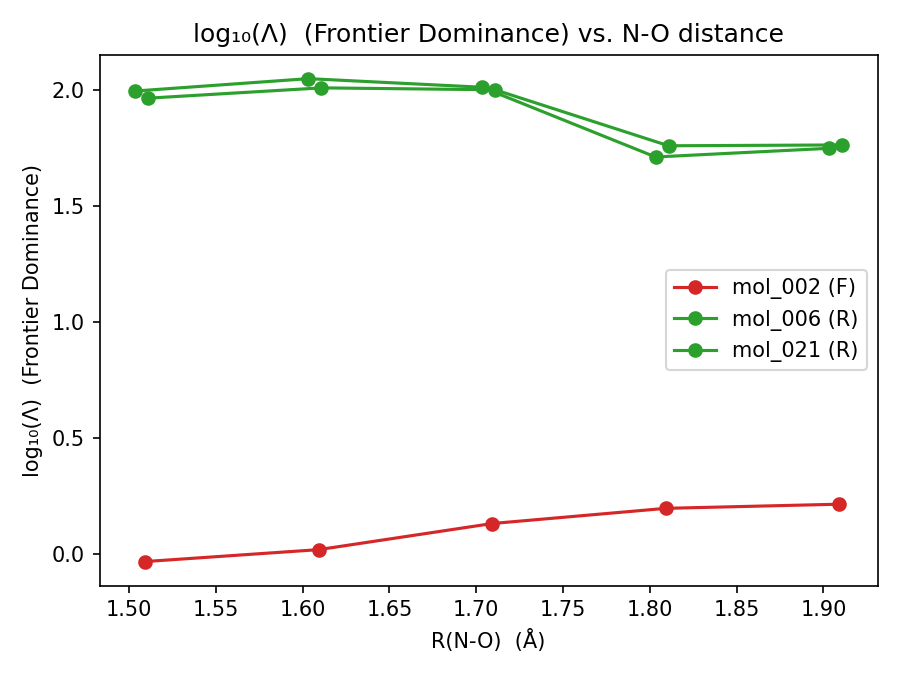
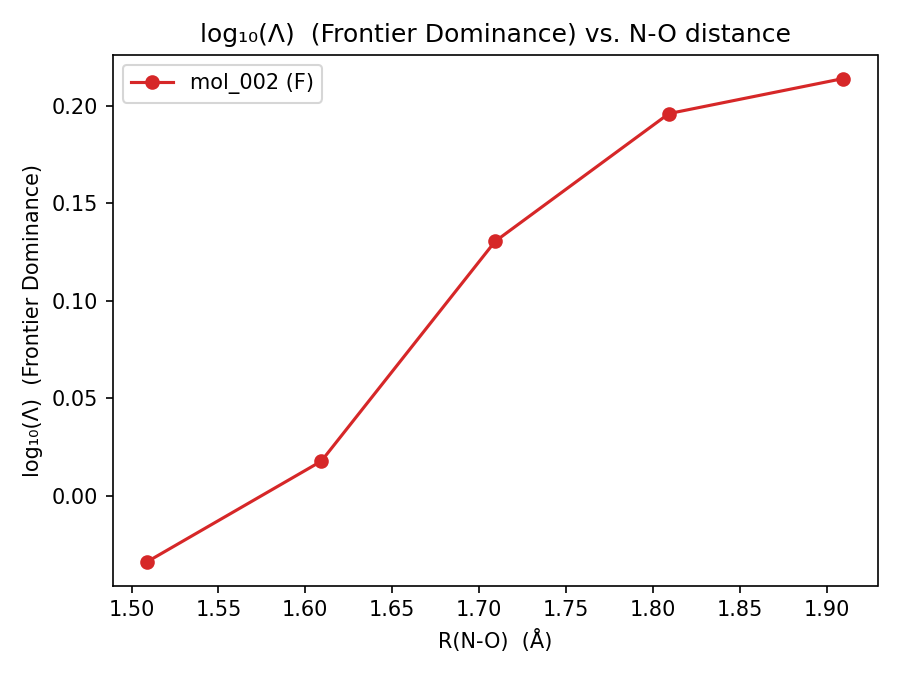
removed floor for lamda

diff --git a/beckmann/dft/parse_cmo.py b/beckmann/dft/parse_cmo.py
@@ -12,11 +12,19 @@ Rearrangement" (Sections 2.2-2.4). See Notes.md for the full derivation.
   w17max     = wX^max for X = BD*(C{ci}-C{c_aryl})  (rearrangement channel)
   w78max     = wX^max for X = BD*(C{ci}-C{c_alkyl}) (fragmentation channel)
   wcnmax     = wX^max for X = BD*(C{ci}-N{ni})      (nitrilium/routing channel)
-  Lambda     = max(w78max) / max(max(w17max), 1e-3) -- fragmentation-channel
-               dominance over rearrangement-channel dominance, NOT an
-               unrestricted max over the whole window (that was the bug in an
-               earlier version of this module -- see Notes.md).
-  log_lambda = log10(Lambda).
+  Lambda     = w78max / w17max -- fragmentation-channel dominance over
+               rearrangement-channel dominance, NOT an unrestricted max over
+               the whole window (that was the bug in an earlier version of
+               this module -- see Notes.md). Left undefined (None) when
+               w17max wasn't found anywhere in the LUMO..LUMO+0.4 window --
+               previously floored to w78max/1e-3 in that case, which silently
+               produced huge Lambda values that were a division-floor
+               artifact, not a real ratio (see JOB_ISSUES.md-adjacent
+               discussion; caught because it inflated Lambda for two
+               substrates where the rearrangement-channel antibond simply
+               sits outside the window, not because the ratio was genuinely
+               extreme).
+  log_lambda = log10(Lambda), also None when Lambda is None.
 
 c_aryl/c_alkyl come from beckmann.dft.descriptors.get_substituent_map() (fresh
 RDKit aromaticity check, not any pre-computed CSV).
@@ -48,8 +56,6 @@ CMO_HEADER = "cmo: nbo analysis of canonical molecular orbitals"
 
 MO_HEADER_RE = re.compile(r"MO\s+(\d+)\s+\((occ|vir)\):\s+orbital energy\s*=\s*(-?\d+\.\d+)\s*a\.u\.")
 CONTRIB_RE   = re.compile(r"^\s*(-?\d+\.\d+)\*\[\s*\d+\]:\s+(.+?)\s*$")
-
-LAMBDA_FLOOR = 1e-3
 
 FIELDS = [
     "mol", "stage", "r_no",
@@ -172,8 +178,8 @@ def compute_descriptors(mo_table: list[dict], ci: int, ni: int, c_aryl: int, c_a
     w17max, w17max_mo, _, _ = channels["17"]
     w78max, w78max_mo, _, _ = channels["78"]
 
-    lambda_val  = (w78max or 0.0) / max(w17max or 0.0, LAMBDA_FLOOR)
-    log_lambda  = math.log10(lambda_val) if lambda_val > 0 else None
+    lambda_val  = w78max / w17max if (w17max is not None and w17max > 0 and w78max is not None) else None
+    log_lambda  = math.log10(lambda_val) if lambda_val is not None and lambda_val > 0 else None
 
     summary = {
         "lambda": lambda_val, "log_lambda": log_lambda,
@@ -259,9 +265,10 @@ def main() -> None:
         rows, channel_rows = collect_molecule(mol, mol_dir, subst["c_aryl"], subst["c_alkyl"])
         print(f"-- {mol} (aryl=C{subst['c_aryl']}, alkyl=C{subst['c_alkyl']}): {len(rows)} stage points")
         for row in sorted(rows, key=lambda r: r["stage"]):
+            lambda_str = f"{row['lambda']:.4f}" if row["lambda"] is not None else "None"
             print(
                 f"     {row['stage']:<8} R(N-O)={row['r_no']}  "
-                f"Lambda={row['lambda']:.4f}  logLambda={row['log_lambda']}  "
+                f"Lambda={lambda_str}  logLambda={row['log_lambda']}  "
                 f"w17max={row['w17max']}  w78max={row['w78max']}  wCNmax={row['wcnmax']}"
             )
         all_rows.extend(rows)

diff --git a/scripts/analysis/validate_reference_descriptors.py b/scripts/analysis/validate_reference_descriptors.py
@@ -28,7 +28,7 @@ from pathlib import Path
 
 from beckmann.dft.descriptors import PSI_EPSILON, compute_psi_row
 from beckmann.dft.parse_cmo import (
-    find_cmo_sections, parse_cmo_table, virtual_window, max_weight_for_target, LAMBDA_FLOOR,
+    find_cmo_sections, parse_cmo_table, virtual_window, max_weight_for_target,
 )
 from beckmann.dft.parse_nbo import find_table_starts, parse_table_rows
 
@@ -73,10 +73,10 @@ def main() -> None:
     print(f"  w17max = {w17max} (MO {w17max_mo}, epsilon={w17max_eps} a.u., coefficient={w17max_coeff})")
     print(f"  w78max = {w78max} (MO {w78max_mo}, epsilon={w78max_eps} a.u., coefficient={w78max_coeff})")
 
-    lam = (w78max or 0.0) / max(w17max or 0.0, LAMBDA_FLOOR)
     import math
-    log_lam = math.log10(lam) if lam > 0 else None
-    print(f"  Lambda = {lam:.4f}, log_lambda = {log_lam}")
+    lam = w78max / w17max if (w17max is not None and w17max > 0 and w78max is not None) else None
+    log_lam = math.log10(lam) if lam is not None and lam > 0 else None
+    print(f"  Lambda = {lam}, log_lambda = {log_lam}")
     print("  (no single-point reference value exists for Lambda -- Table 2 only reports d/dR log10(Lambda))\n")
 
     e2pert_rows = [

diff --git a/data/output/analysis/descriptor_summary.md b/data/output/analysis/descriptor_summary.md
@@ -1,11 +1,13 @@
 # Descriptor summary (mol_002, 006, 021)
 
-mol_020 omitted from this run -- its relaxed scan hit the step cap on scan point 5 without converging (oscillating ring pucker) and the job crashed after the NBO7 single-point; see mol_020_E_scan.log. Will be added back once that scan is fixed and rerun.
+mol_020 omitted from this run -- its relaxed scan hit the step cap on scan point 5 without converging (oscillating ring pucker) and the job crashed after the NBO7 single-point; see JOB_ISSUES.md in data/output/dft_opt/. Will be added back once that scan is fixed and rerun.
+
+Lambda/log_lambda are left undefined (n/a) rather than floored when w17max isn't found anywhere in the LUMO..LUMO+0.4 a.u. virtual-orbital window (mol_006 and mol_021, all stages) -- an earlier version of this pipeline substituted a 1e-3 floor for the missing w17max, which inflated Lambda into a division-floor artifact (values of 50-100) rather than a real ratio. See beckmann/dft/parse_cmo.py docstring.
 
 d/dR = least-squares slope over the 5-point N-O scan. 'wCNmax extremum' = interior local min/max in the wCNmax(R) series (the paper's central signature -- Table 2 reports this only for the one rearranging reference compound, none of the three fragmenting ones).
 
 | mol | exp | d(Ψ)/dR | d(log₁₀Λ)/dR | d(wCNmax)/dR | d(w17max)/dR | d(w78max)/dR | wCNmax extremum |
 |---|---|---|---|---|---|---|---|
 | mol_002_E | F | 2.337 | 0.673 | 0.020 | 0.027 | 0.154 | no |
-| mol_006_E | R | 2.426 | -0.653 | 0.018 | n/a | -0.113 | no |
-| mol_021_E | R | 2.001 | -0.832 | 0.027 | n/a | -0.147 | yes @ R=1.7033 (MO 53, epsilon=-0.0016 a.u.) |
+| mol_006_E | R | 2.426 | n/a | 0.018 | n/a | -0.113 | no |
+| mol_021_E | R | 2.001 | n/a | 0.027 | n/a | -0.147 | yes @ R=1.7033 (MO 53, epsilon=-0.0016 a.u.) |
